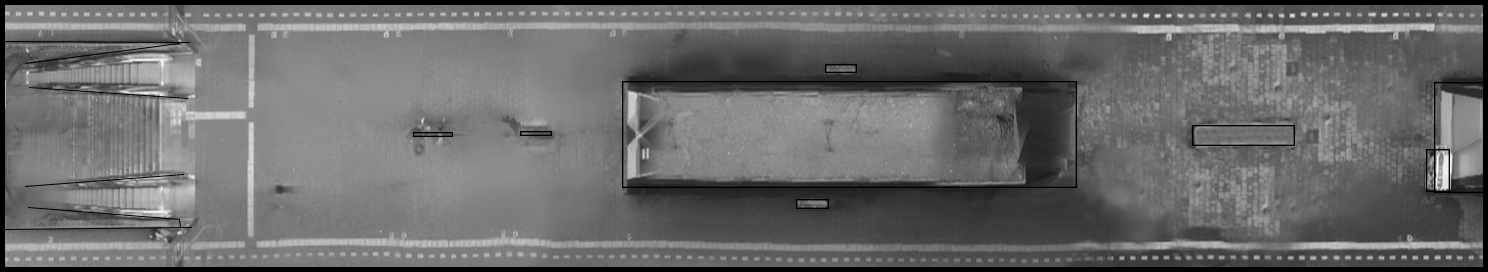
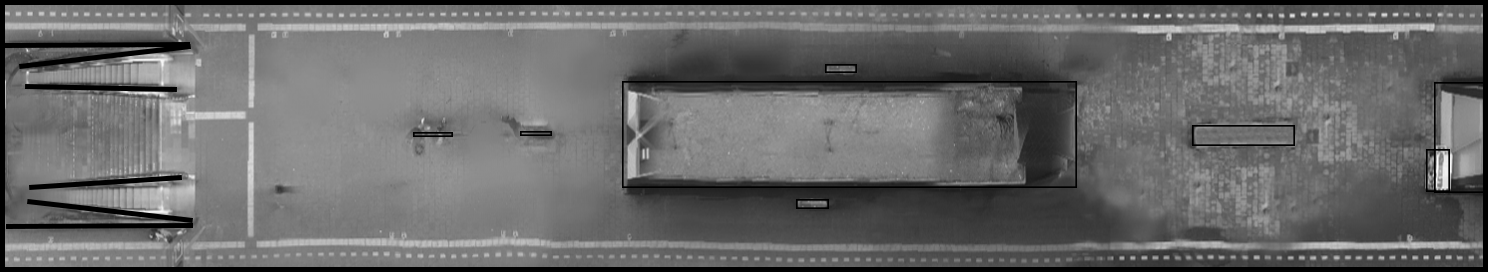
fixed waiting ppl and changed trainstation map

diff --git a/examples/micro/social/micro_social_modified.py b/examples/micro/social/micro_social_modified.py
@@ -217,6 +217,8 @@ with open(opt.jsonfilename) as json_file:
 # x (without the black borders) \in ~(0.6, 296.6) (297.6 for the entire pic)
 # y ( --//--) \in ~(1.1, 53.9) (54 for the entire pic)
 
+#stairs: [(11,33),(14.1,17.9)] (escalators down), [(5.5,33),(38.7,41.7)] (escalators up),
+#[(6, 33),(20, 36.7)] (normal stairs)
 
 prefix = input["prefix"]
 if not os.path.exists(prefix):
@@ -286,7 +288,20 @@ print("===> ONLY used during initialization ! Minimal distance between a \
 # xyrv_stationary = np.zeros((N_stationary, 4)) #xyrv of stationary people
 # for i in range(N_stationary):
 #     xyrv_stationary[i,2] = 0 #radius distrib
-#     xyrv_stationary[i,3] = 0 #velocity distrib 
+#     xyrv_stationary[i,3] = 0 #velocity distrib
+ 
+## Awareness stuff ##
+#The awareness values should be between 0 and 1
+mean_awr = 0.5 # mean of awareness
+stdev_awr = 0.2 # stdev of awareness
+awr = np.random.normal(mean_awr, stdev_awr, nn) # awareness[i] is the awareness value of person i
+for i in range(awr.shape[0]): #Just in case you get unlucky
+    if awr[i] < 0:
+        awr[i] = 0
+    elif awr[i] > 1:
+        awr[i] = 1
+#awr = np.ones(nn) #for testing 
+  
 """
     Build the Domain objects
 """
@@ -321,25 +336,33 @@ for i,jdom in enumerate(json_domains):
     for c in range(N_stationary):
         ## boundaries of kiosk: [124,215, 17.3,38.3]
         ## boundaries of some other thingy at the end of the platform: [286,297, 16.5,38.1]  
-        ## waiting places in zone_1: []
-        dummy = random.choices([1,2,3,4], [1,5,10,7])
-        print(dummy)
-        if dummy == 1:
+        ## y's of waiting places in zone_1: [(1,9),(46.5,54)]
+        dummy = random.choices([1,2,3,4], [1,5,20,10])
+        if dummy[0] == 1:
             x_rnd = random.uniform(zone_1[0][0],zone_1[0][1]) 
             y_rnd = random_from_intervals(((1,9), (46.5,54)))
-        elif dummy == 2:
+        elif dummy[0] == 2:
             x_rnd = random.uniform(zone_2[0][0],zone_2[0][1]) 
             y_rnd = random.uniform(zone_2[0][2],zone_2[0][3])
-        elif dummy == 3:
+        elif dummy[0] == 3:
             x_rnd = random.uniform(zone_3[0][0],zone_3[0][1]) 
-            y_rnd = random_from_intervals(((1,17.3),(38.3,54)))        
+            y_rnd = random_from_intervals(((1,17.3),(38.3,54)))
+            #move ppl closer to walls depending on the mean awareness
+            if y_rnd < 7:
+                chance = random.uniform(0,1)
+                if chance > mean_awr:
+                    y_rnd = y_rnd + 10 
+            elif y_rnd > 48.3:
+                chance = random.uniform(0,1)
+                if chance > mean_awr:
+                    y_rnd = y_rnd - 10      
         else:    
             x_rnd = random.uniform(zone_4[0][0],zone_4[0][1])
             if (x_rnd>286.0 and x_rnd<297):
                 y_rnd = random_from_intervals(((1,17.3),(38.3,54)))
             else:
                 y_rnd = random.uniform(1,54)           
-        circles = Circle((x_rnd, y_rnd), 0.25) #random location of dots
+        circles = Circle((x_rnd, y_rnd), 0.35) #random location of dots
         dom.add_shape(circles, outline_color=[0,0,0],fill_color=[0,0,0])
         ##this was for implementing stationary ppl
         #xyrv_stationary[c, 0] = x_rnd
@@ -402,17 +425,7 @@ for i,jdom in enumerate(json_domains):
 
 print("===> All domains = ",domains)
 
-## Awareness stuff ##
-#The awareness values should be between 0 and 1
-mean_awr = 0.5 # mean of awareness
-stdev_awr = 0.2 # stdev of awareness
-awr = np.random.normal(mean_awr, stdev_awr, nn) # awareness[i] is the awareness value of person i
-for i in range(awr.shape[0]): #Just in case you get unlucky
-    if awr[i] < 0:
-        awr[i] = 0
-    elif awr[i] > 1:
-        awr[i] = 1
-#awr = np.ones(nn) #for testing
+
 """
     To create the sensors to measure the pedestrian flows
 """
@@ -574,7 +587,7 @@ while (t<Tf):
                         plot_people=plot_p, plot_contacts=plot_c,
                         plot_paths=plot_pa, plot_velocities=plot_v,
                         plot_desired_velocities=plot_vd, plot_sensors=plot_s,
-                        sensors=all_sensors[dom.name], savefig=True,
+                        sensors=all_sensors[dom.name], savefig=False,
                         filename=prefix+dom.name+'_fig_'
                         + str(counter).zfill(6)+'.png')
             plt.pause(0.01)
